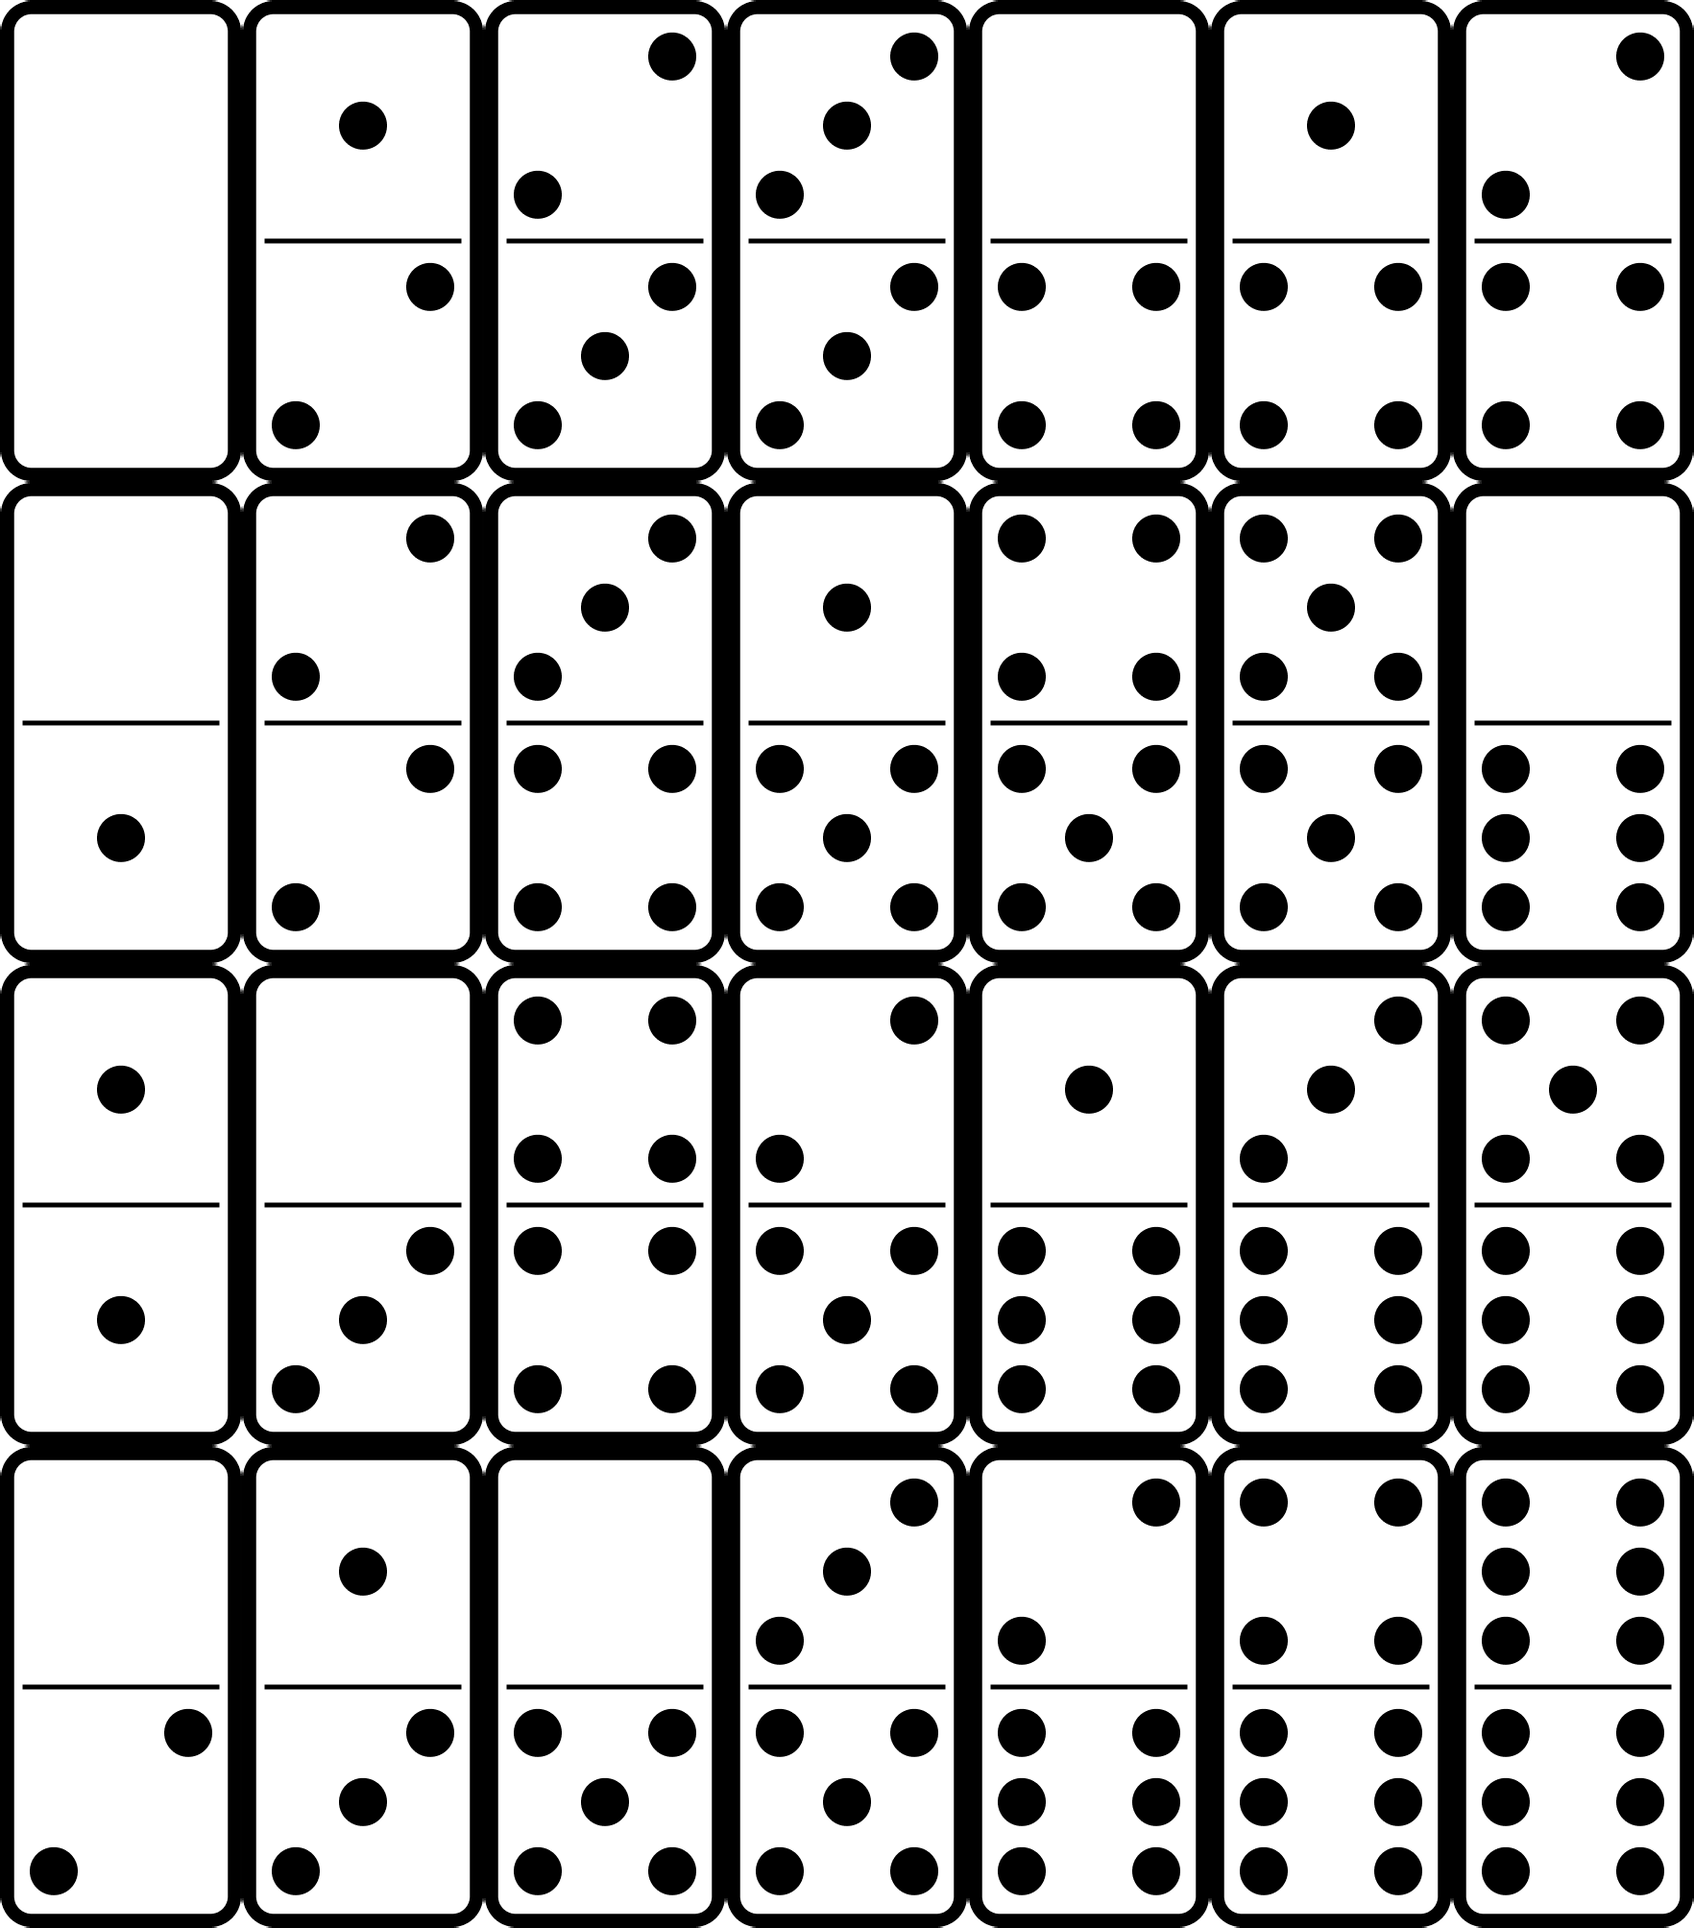
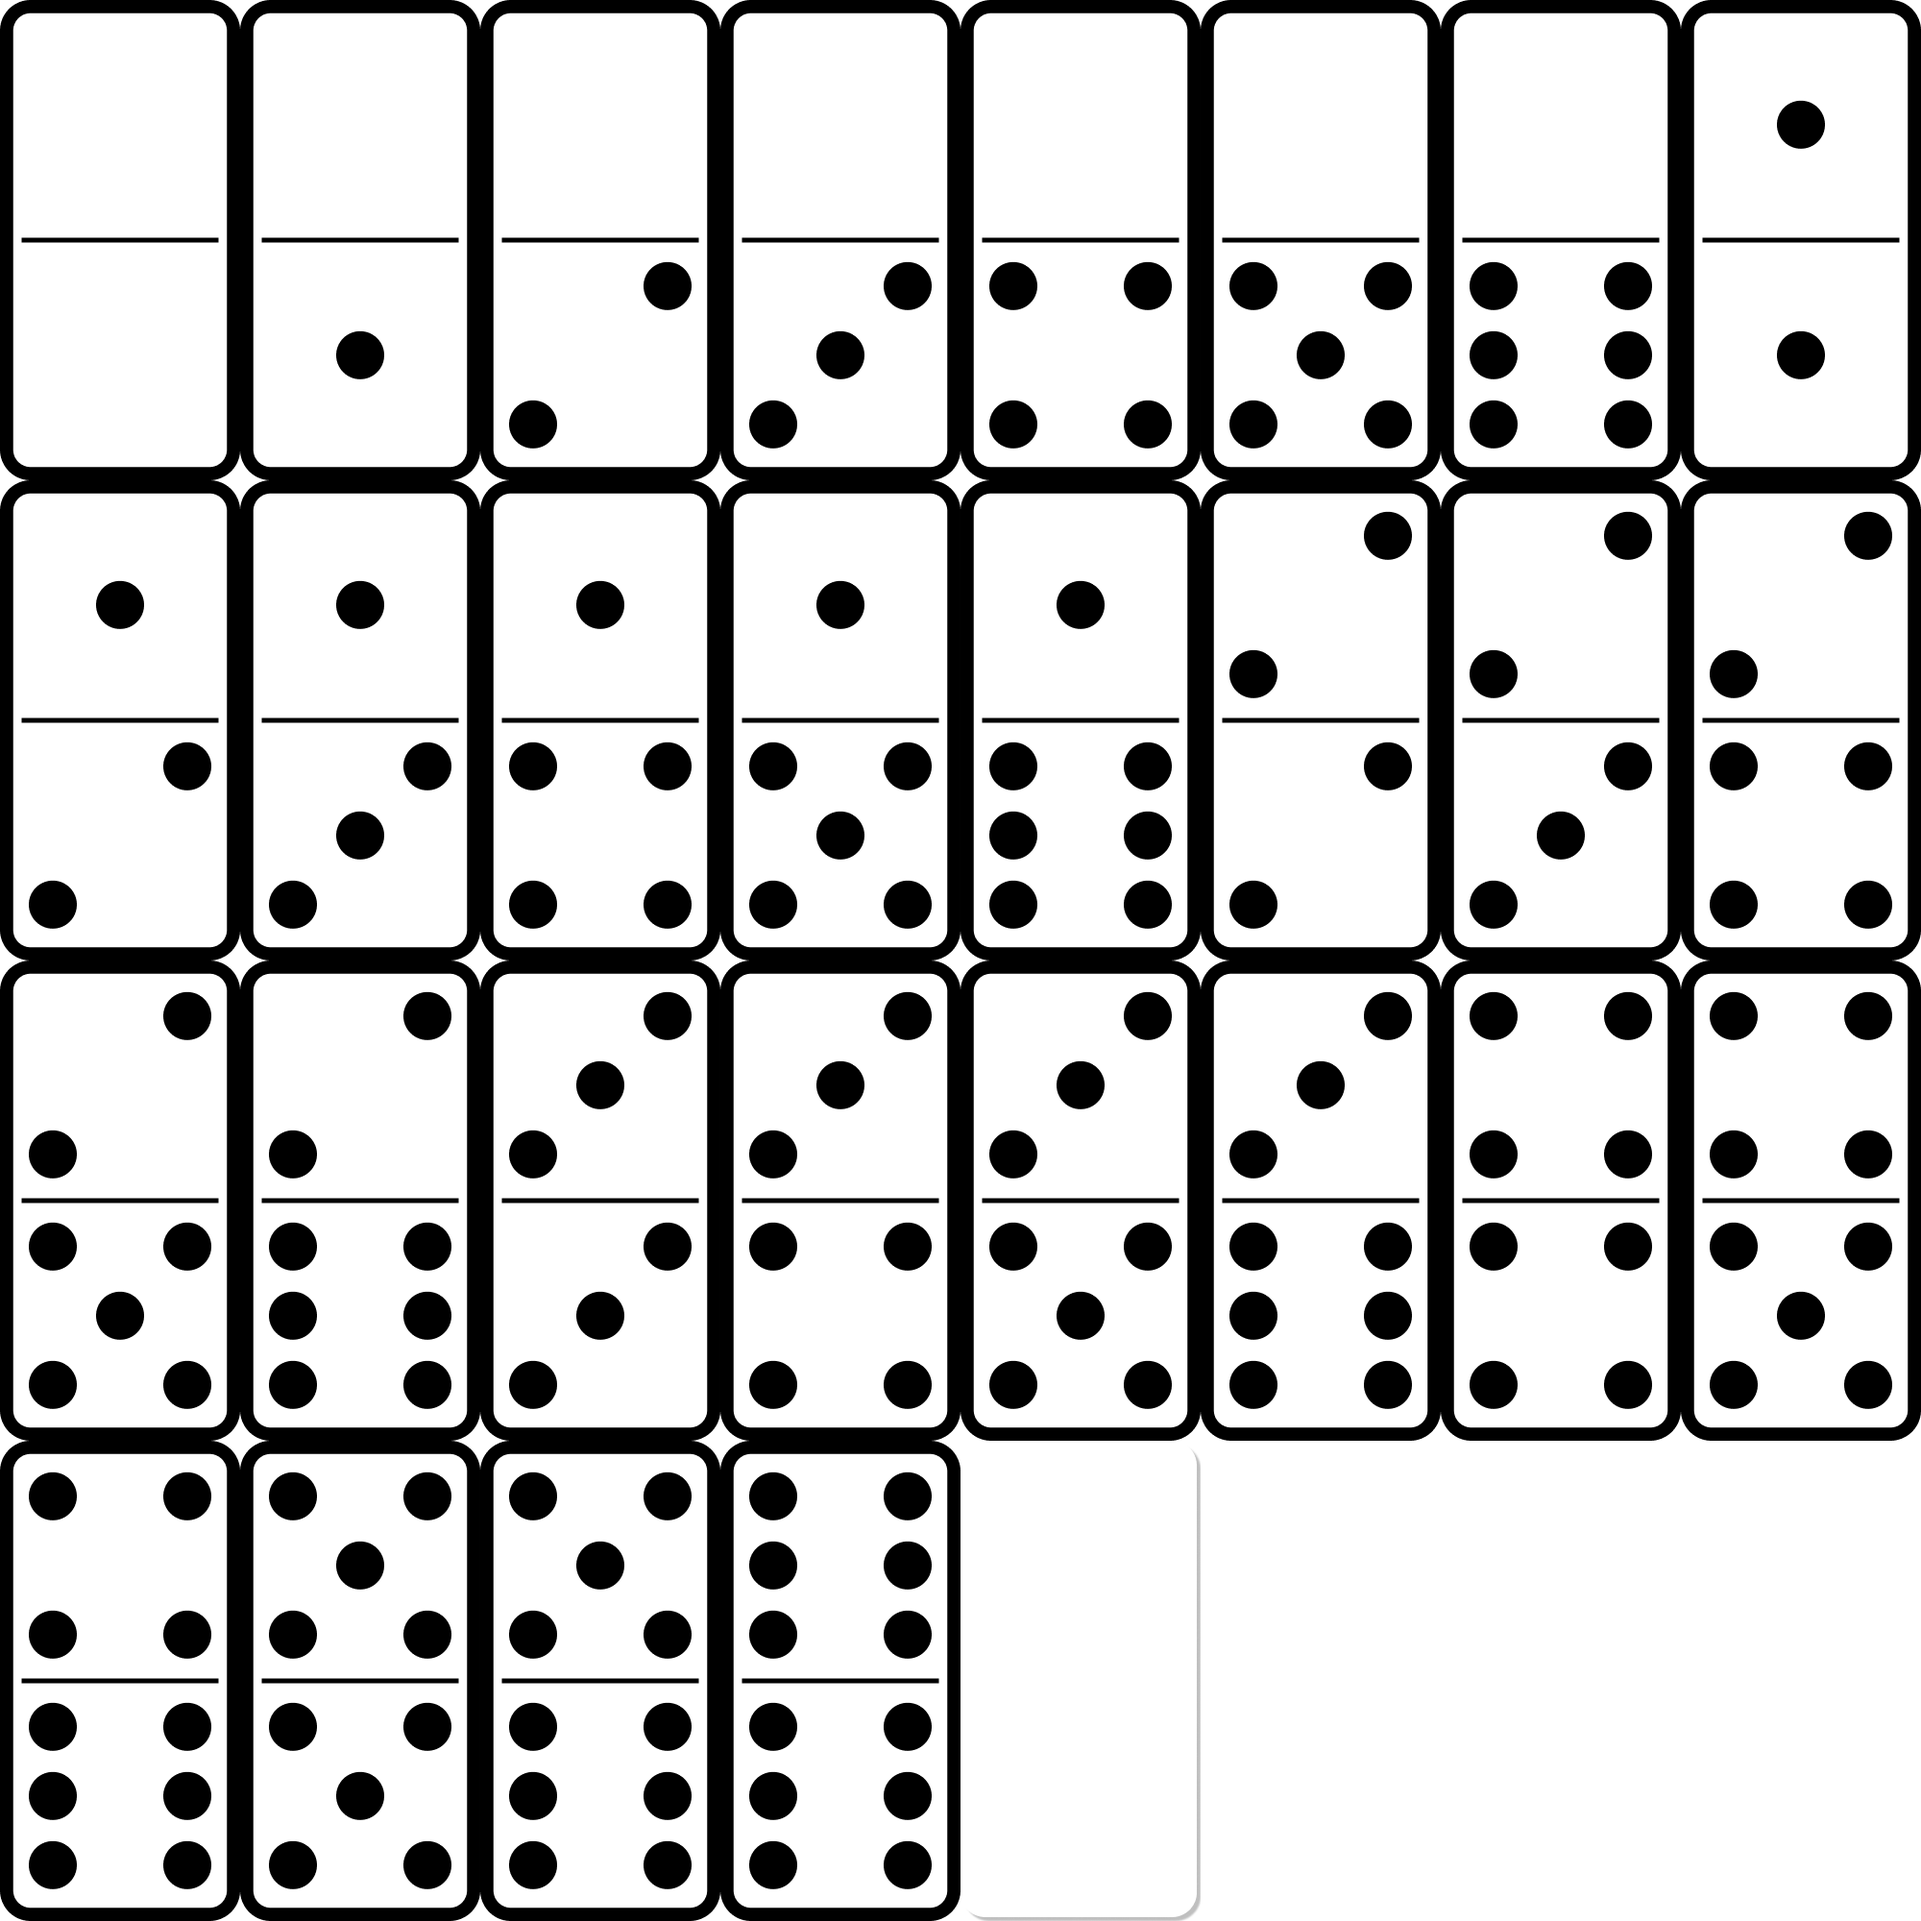
enhance sprite sheet add card back

diff --git a/game.js b/game.js
@@ -1,8 +1,8 @@
 let game;
 
 let gameOptions = {
-    cardWidth: 252,
-    cardHeight: 502,
+    cardWidth: 250,
+    cardHeight: 500,
     cardScale: 0.8
 };
 
@@ -41,8 +41,9 @@ class playGame extends Phaser.Scene {
     create() {
         this.canSwipe = true;
     
-        this.deck = Phaser.Utils.Array.NumberArray(0, 27);
+        this.deck = Phaser.Utils.Array.NumberArray(0, 28);
         Phaser.Utils.Array.Shuffle(this.deck);
+        // Phaser.Utils.Array.Swap(this.deck, 0, 28);
     
         this.cardsInGame = [this.createCard(0), this.createCard(1)];
     
